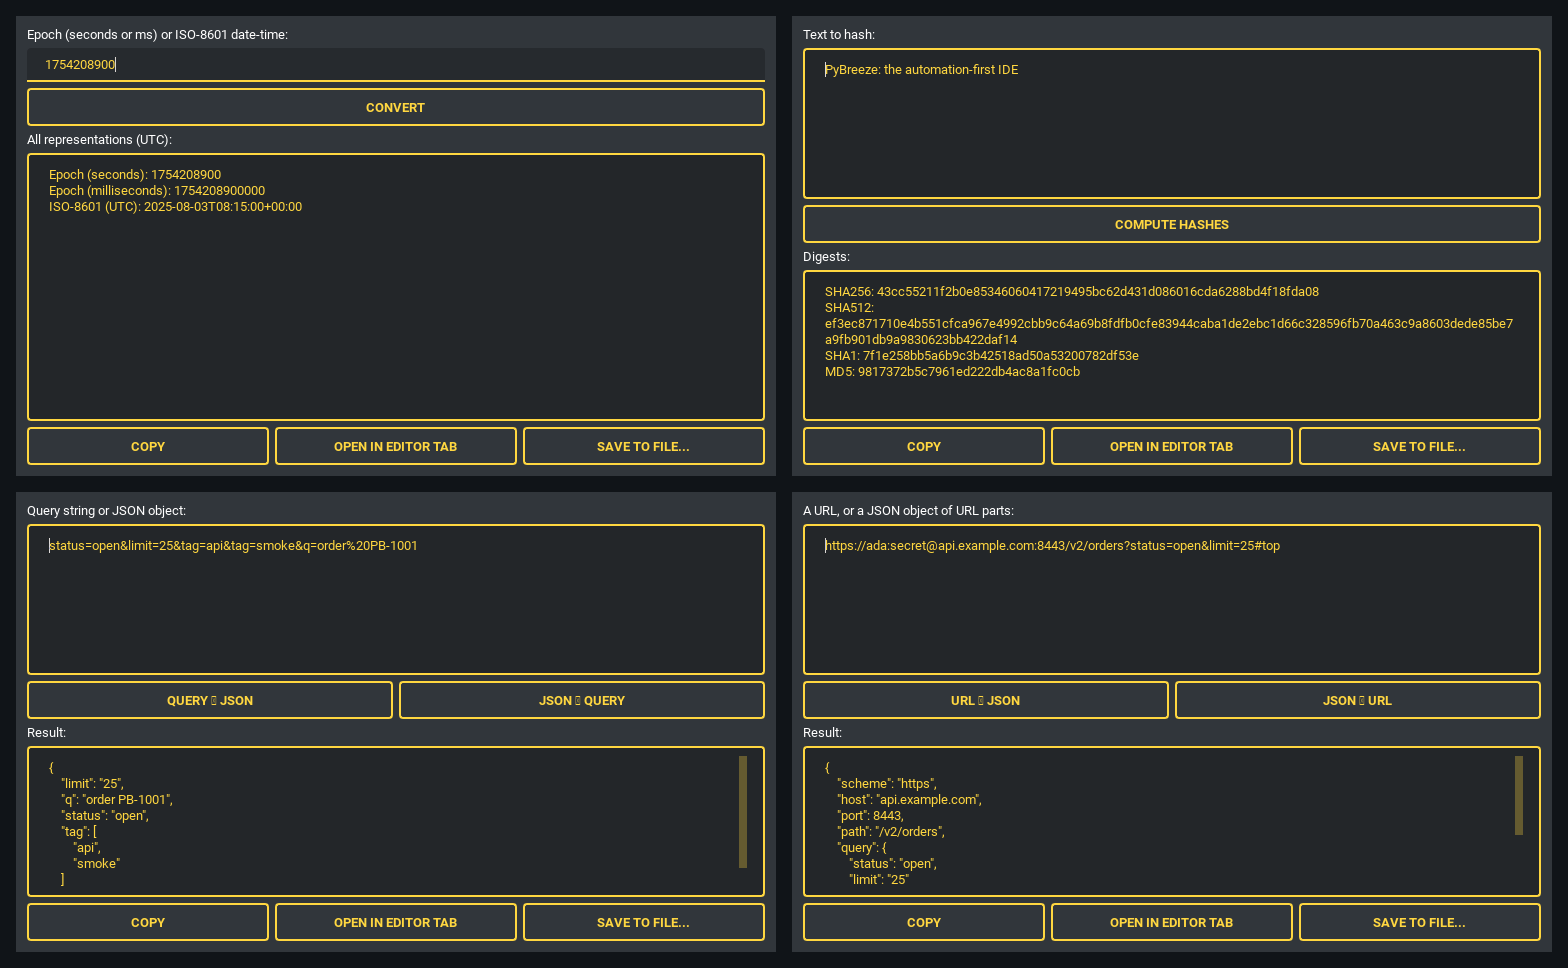
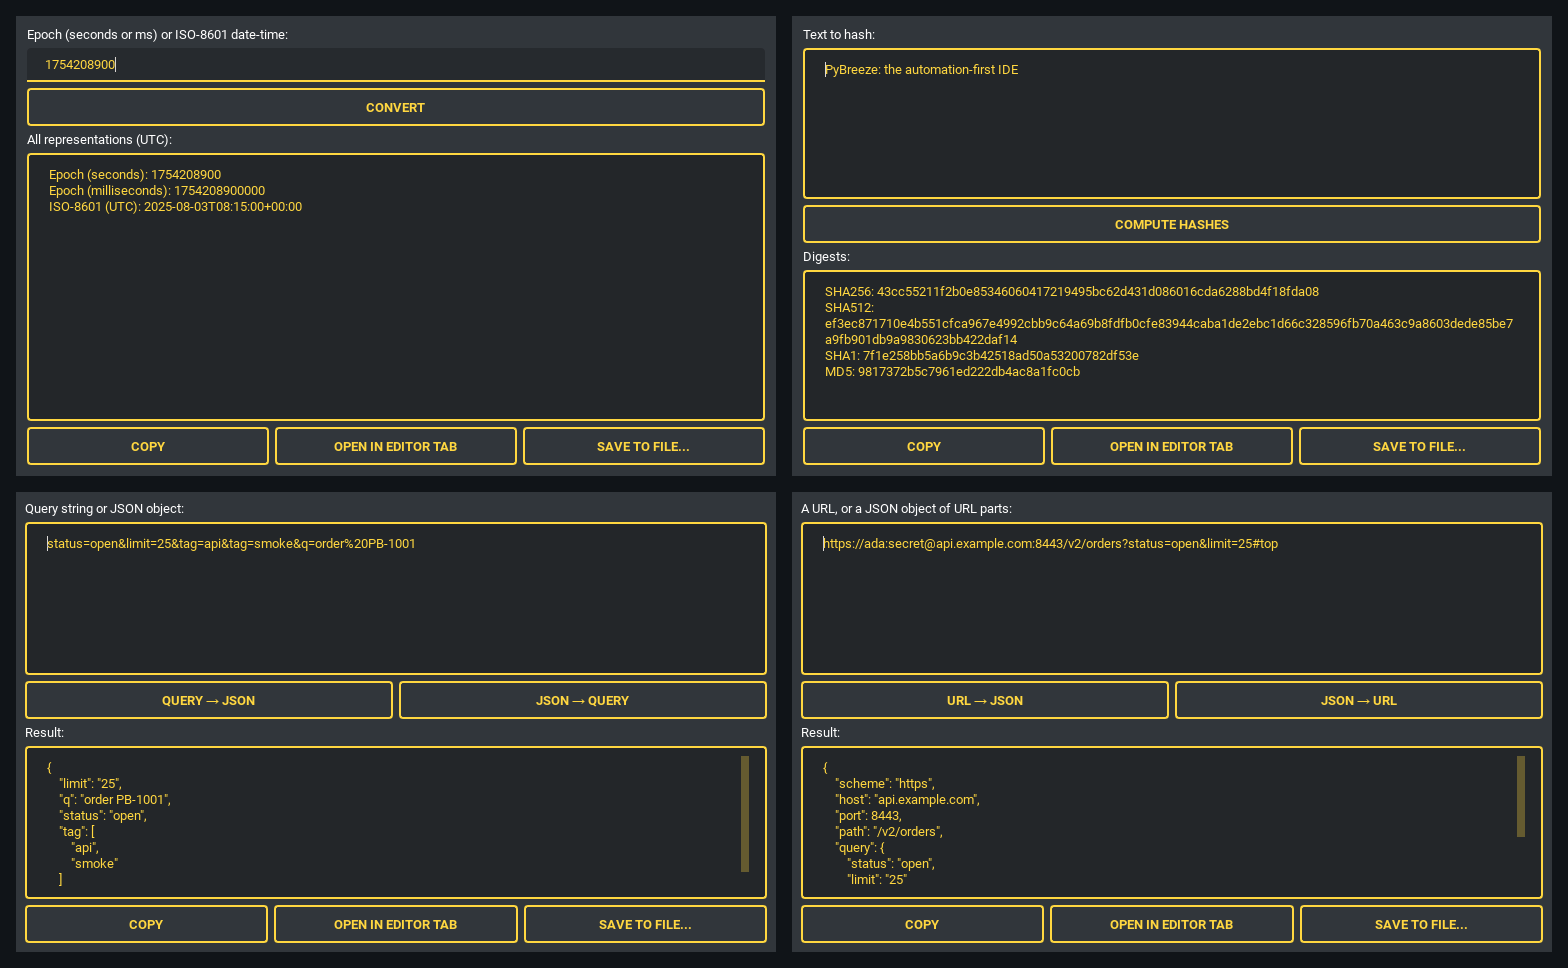
Redo the README screenshots whose arrow labels showed as boxes

diff --git a/docs/updates/2026-09-b.md b/docs/updates/2026-09-b.md
@@ -887,3 +887,11 @@ Continues [2026-09.md](2026-09.md), which passed the batch size limit. Index and
 - **Change**: the three redone at their old sizes (1180 x 640, 900 x 620, 1180 x 720) with the same content: the SSH tab disconnected; a real run of a script that turns a curl command into a pytest test, through `FileRunnerProcess`; the same diagram, imported from Mermaid and fitted (67 %). Rendered at a scale of 1 (`QT_ENABLE_HIGHDPI_SCALING=0`; the machine is at 125 %) and with Qt's FreeType engine (`-platform windows:fontengine=freetype`), whose greyscale antialiasing matches the old images: ClearType's colour fringes made the grey edge labels look orange.
 - **Files**: `images/ssh_client.png`, `images/run_output_window.png`, `images/diagram_editor.png`, `images/tool_diff.png`
 - **Open items**: none.
+
+## U-20260924-298 · 2026-09-24 · Arrow labels in the README's tool screenshots · #docs
+
+- **What**: in `tool_query_json.png`, `tool_url_builder.png` and the lower half of `tools_montage_b.png`, the conversion buttons read "QUERY ▯ JSON", "URL ▯ JSON": the machine that took them in August had no glyph for the arrow (`Query → JSON` in the word dict). The IDE draws it. Found while checking the README screenshots after U-20260924-297.
+- **Change**: the two tabs rendered again with the same input (`status=open&limit=25&tag=api&tag=smoke&q=order%20PB-1001`; `https://ada:secret@api.example.com:8443/v2/orders?status=open&limit=25#top`) and Query → JSON / URL → JSON pressed, at 760 x 460, and pasted over the same two panels of the montage (the timestamp and hash panels above are unchanged). A top-level window came out 762 x 468 whatever size it was given, so each was rendered inside a container widget.
+- **Checked, unchanged**: `tool_json_format.png` and its panel in `tools_montage_a.png`: Format still sorts the keys, so they show what the tool shows. No other screenshot has an arrow label (the HAR tab's hint with one is hidden once a file is open).
+- **Files**: `images/tool_query_json.png`, `images/tool_url_builder.png`, `images/tools_montage_b.png`
+- **Open items**: none.

diff --git a/docs/updates/README.md b/docs/updates/README.md
@@ -58,6 +58,7 @@ In the same commit: delete the item from `progress.md`, add a `#done` entry here
 
 | ID | Date | Title | Tags | Batch |
 |---|---|---|---|---|
+| U-20260924-298 | 2026-09-24 | Arrow labels in the README's tool screenshots | #docs | [2026-09-b](2026-09-b.md) |
 | U-20260924-297 | 2026-09-24 | README screenshots of the SSH tab, the run window and the diagram editor redone | #docs | [2026-09-b](2026-09-b.md) |
 | U-20260924-296 | 2026-09-24 | The diff tool shows its diff in colour | #feature #ui | [2026-09-b](2026-09-b.md) |
 | U-20260924-295 | 2026-09-24 | Automation keywords readable on a light theme | #fix #ui #jeditor | [2026-09-b](2026-09-b.md) |
@@ -379,4 +380,4 @@ In the same commit: delete the item from `progress.md`, add a `#done` entry here
 | File | Period | Entries |
 |---|---|---:|
 | [2026-09.md](2026-09.md) | 2026-09 | 218 |
-| [2026-09-b.md](2026-09-b.md) | 2026-09 | 95 |
+| [2026-09-b.md](2026-09-b.md) | 2026-09 | 96 |
